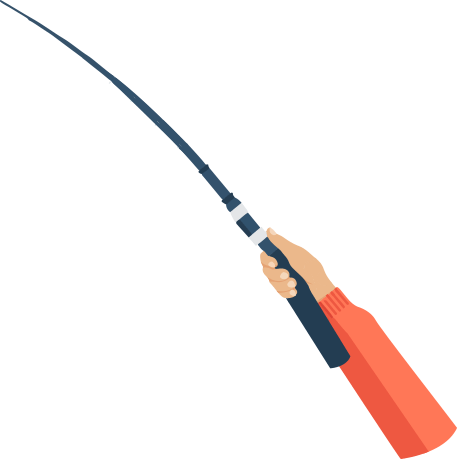
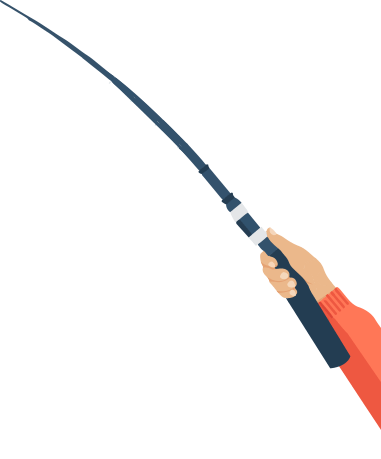
get offset of parent and rod

Changed region(s): [[0.0577, 0.0305, 1.0, 1.0], [0.0, 0.0, 0.0577, 0.0305]]

diff --git a/src/views/Home.vue b/src/views/Home.vue
@@ -1,5 +1,5 @@
 <template>
-  <div class="game" @mousemove="mousemove">
+  <div class="fishing-game" @mousemove="mousemove">
     <div class="indicator" id="indicator" v-if="!isTouch">
       <img src="@/assets/compressed/cast.png" class="indicator__text" alt />
       <img src="@/assets/compressed/arrow.png" class="indicator__arrow" id="indicator__arrow" alt />
@@ -18,6 +18,12 @@
           <img src="@/assets/compressed/title-2.png" id="title-2" class="title-2" alt />
         </center>
       </div>
+      <img
+        :src="require(`@/assets/original/fishing-rod.png`)"
+        class="fishing-rod"
+        id="fishing-rod"
+        alt
+      />
 
       <img
         :src="require(`@/assets/compressed/${isMobile ? 'bg_mob' : 'bg_pc'}.png`)"
@@ -71,6 +77,7 @@
         @mouseout="setIndicator(0)"
         @click="startBait"
       />
+      <div class="pond-mask" id="pond-mask" />
     </div>
   </div>
 </template>
@@ -83,6 +90,8 @@ export default {
     baitContainer: null,
     gsap: null,
     pond: null,
+    pondMask: null,
+    rod: null,
     titleOne: null,
     titleTwo: null,
 
@@ -130,7 +139,7 @@ export default {
 
   watch: {
     isBaiting(val) {
-      this.gsap.to(this.pond, 0.15, {
+      this.gsap.to(this.pondMask, 0.15, {
         opacity: val ? 0 : 1,
         ease: val ? "power4.out" : "power4.in"
       });
@@ -145,6 +154,8 @@ export default {
     initElements() {
       this.indicator = document.getElementById("indicator");
       this.pond = document.getElementById("pond");
+      this.pondMask = document.getElementById("pond-mask");
+      this.rod = document.getElementById("fishing-rod");
       this.wave = document.getElementById("wave");
       this.titleOne = document.getElementById("title-1");
       this.titleTwo = document.getElementById("title-2");
@@ -233,8 +244,8 @@ export default {
       this.isBaiting = true;
 
       tl.add(this.startBait__switchTitle(), 0);
-      tl.add(this.startBait__throwLure(e), 0);
-      tl.add(this.startBait__animateWave(), 1);
+      // tl.add(this.startBait__throwLure(e), 0.5);
+      // tl.add(this.startBait__animateWave(), 1);
 
       this.floatLure();
     },
@@ -510,20 +521,35 @@ export default {
         scale: this.isBaiting ? 0 : scale,
         autoAlpha: 1
       });
+
+      if (this.isBaiting) return;
+
       this.gsap.to(arrow, 0.3, {
         y: scale === 0 ? "-=5px" : "+=5px",
         yoyo: true,
         ease: "power4.in",
         repeat: -1
       });
+
+      // gsap.to(this.rod, 0.15, {
+      //   opacity: scale
+      // });
     },
 
     mousemove(e) {
-      if (this.isTouch) return;
+      if (this.isTouch || this.isBaiting) return;
 
       this.gsap.to(this.indicator, 0.2, {
         left: e.pageX + this.indicator.clientWidth / 2,
         top: e.pageY + this.indicator.clientHeight / 2
+      });
+
+      // This is about getting the parent's offset
+      const gameContent = document.getElementsByClassName("game-content")[0];
+      const gameContentX = gameContent.getBoundingClientRect().left;
+
+      this.gsap.to(this.rod, 0.2, {
+        left: e.pageX - (gameContentX + window.scrollX) + 100
       });
     }
   }

diff --git a/src/assets/_main.scss b/src/assets/_main.scss
@@ -16,7 +16,7 @@ $gameWidth: 1300px;
 $gameHeight: $gameWidth / 1.6;
 // ratio is 1.6 x 1
 
-.game {
+.fishing-game {
   display: flex;
   justify-content: center;
   user-select: none;
@@ -31,6 +31,17 @@ $gameHeight: $gameWidth / 1.6;
     display: flex;
     justify-content: center;
     background-size: cover;
+    overflow: hidden;
+
+    .fishing-rod {
+      position: absolute;
+      z-index: 2;
+      border: 1px solid white;
+      pointer-events: none;
+      margin: 0;
+      bottom: 0;
+      max-width: 10xp;
+    }
 
     @media only screen and (min-device-width: 640px) {
       height: $gameHeight;
@@ -72,12 +83,26 @@ $gameHeight: $gameWidth / 1.6;
     .pond {
       position: absolute;
       height: 230px;
+      border-radius: 50%;
+      bottom: 20%;
+      cursor: none;
+      width: 70%;
+      z-index: 10;
+
+      @media only screen and (max-device-width: 640px) {
+        width: 90%;
+        height: 180px;
+      }
+    }
+
+    .pond-mask {
+      position: absolute;
+      height: 230px;
       background-color: rgba(0, 0, 0, 0);
       border-radius: 50%;
       bottom: 20%;
       transition: animation 1s;
       animation: neon 1.5s ease-in-out infinite alternate;
-      cursor: none;
       width: 70%;
 
       @media only screen and (max-device-width: 640px) {
